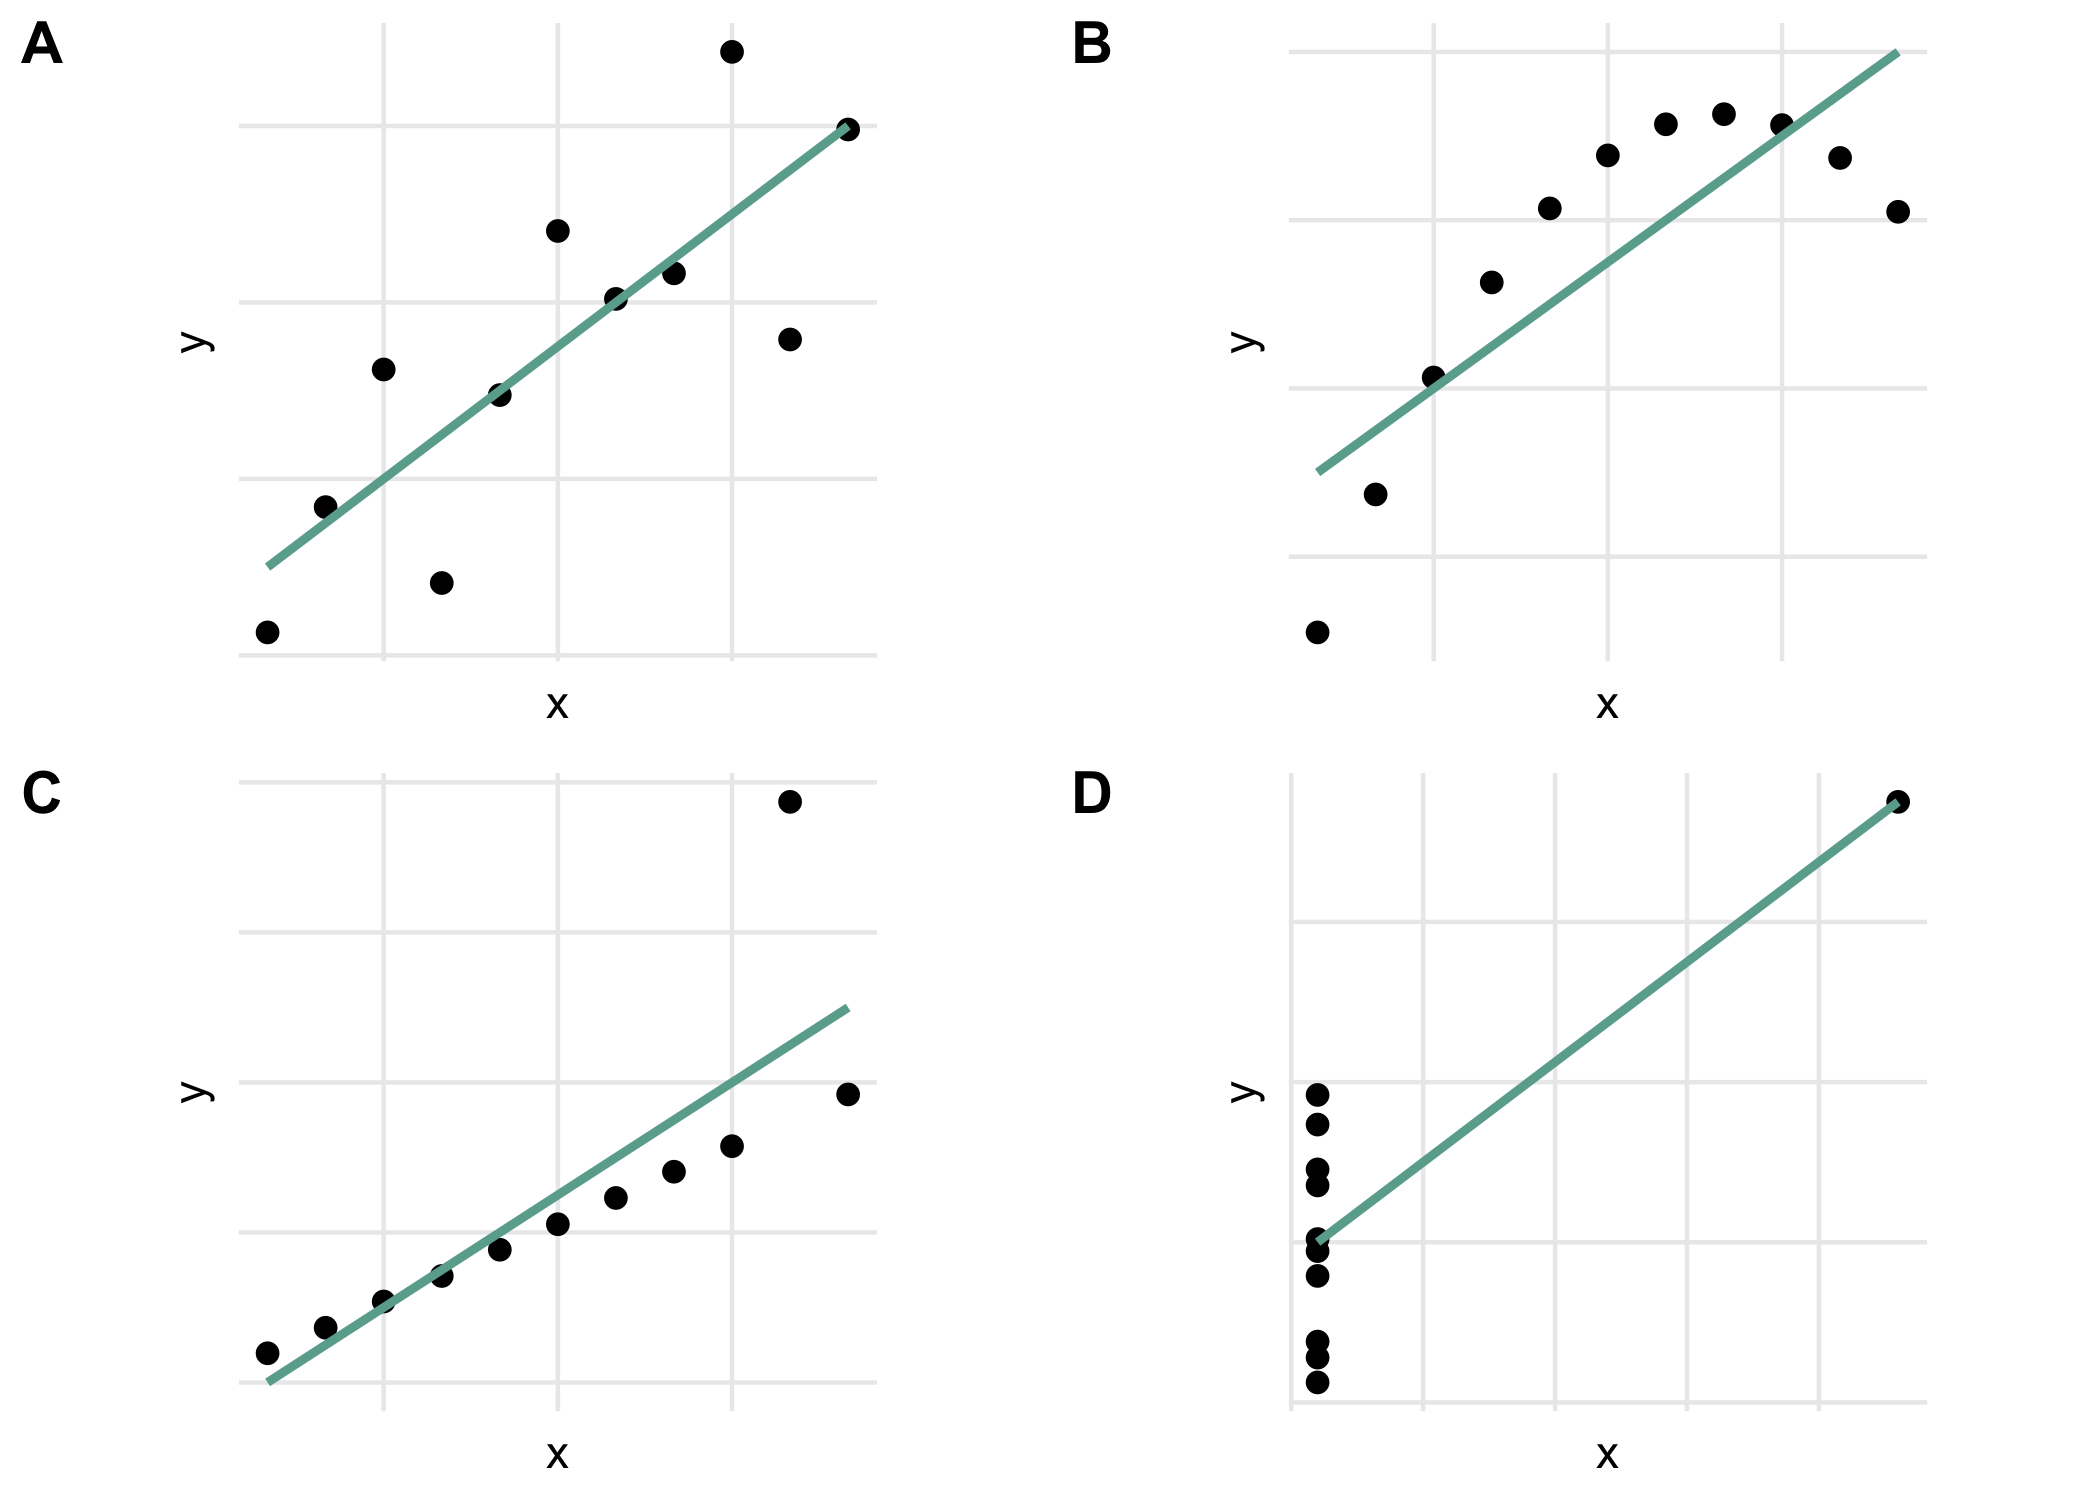
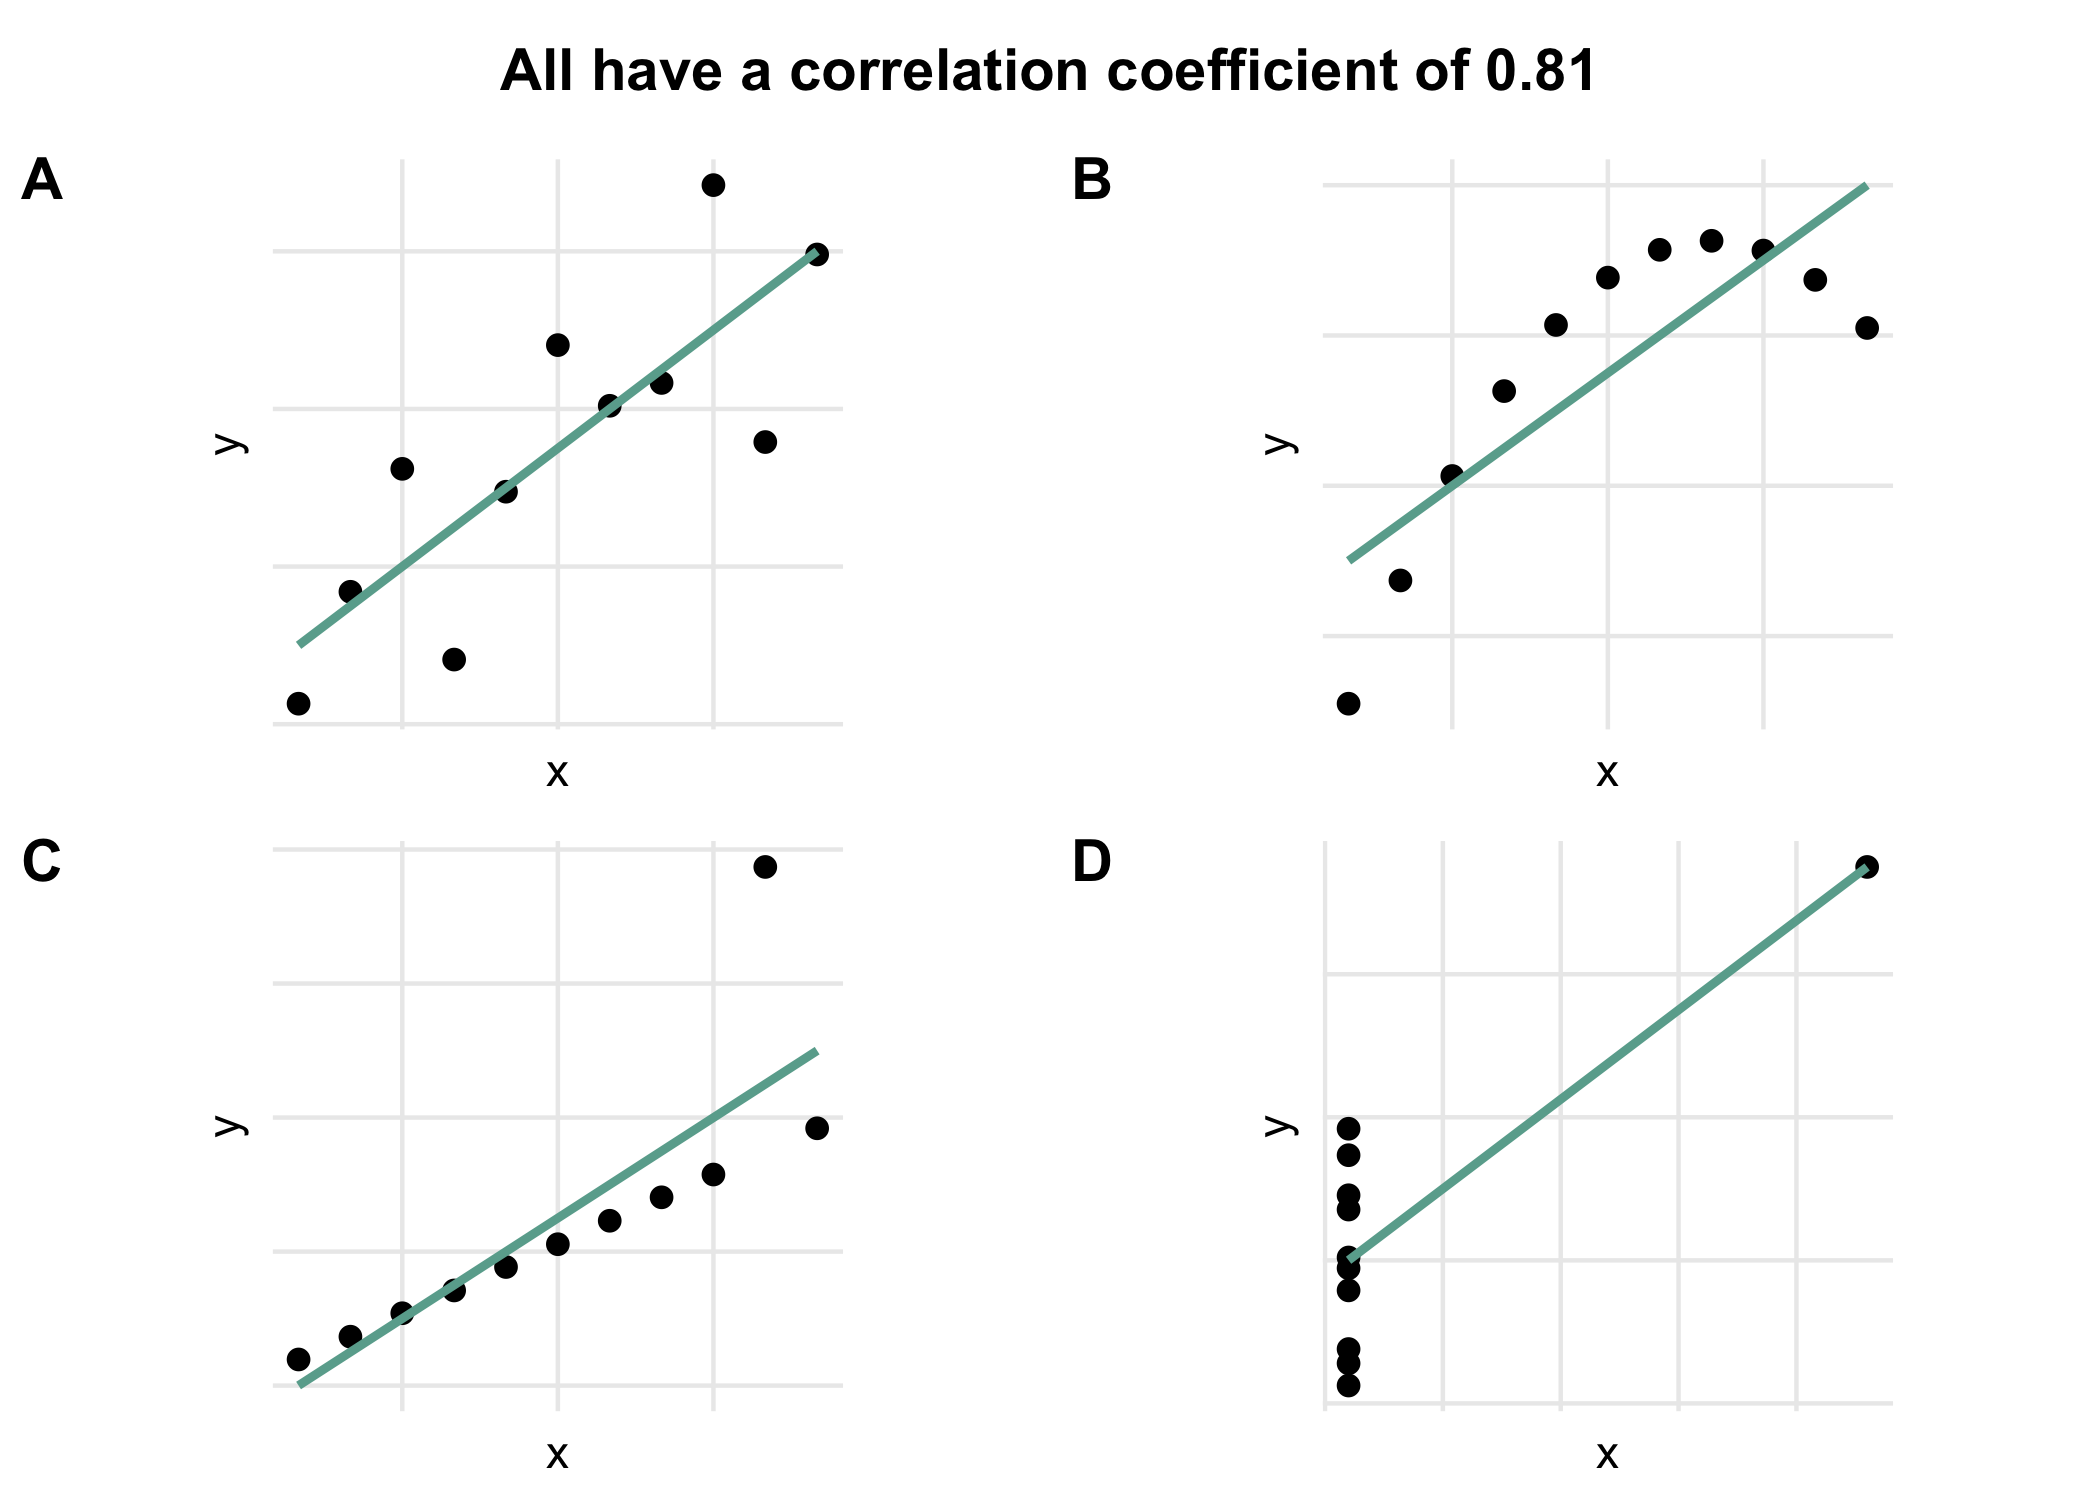
add title

diff --git a/code/1-look-at-data.md b/code/1-look-at-data.md
@@ -24,6 +24,7 @@ theme_update(
 ## Plots of Ancombe’s quartet
 
 ``` r
+# Create plots
 p1 <- anscombe %>%
   ggplot(mapping = aes(x = x1, y = y1)) +
     geom_point(size = 2) +
@@ -48,7 +49,15 @@ p4 <- anscombe %>%
     geom_smooth(formula = "y ~ x", method = "lm", se = FALSE, colour = "#6AAB9C") +
     labs(x = "x", y = "y")
 
-plot_grid(p1, p2, p3, p4, ncol = 2, labels = LETTERS[1:4])
+# Combine plots
+combined <- plot_grid(p1, p2, p3, p4, ncol = 2, labels = LETTERS[1:4])
+
+# Add a title
+title <- ggdraw() +
+  draw_label("\nAll have a correlation coefficient of 0.81\n", fontface = "bold")
+
+# Show the final plot
+plot_grid(title, combined, ncol = 1, rel_heights = c(0.1, 1))
 ```
 
 <img src="1-look-at-data_files/figure-gfm/plots-1.png" style="display: block; margin: auto;" />
